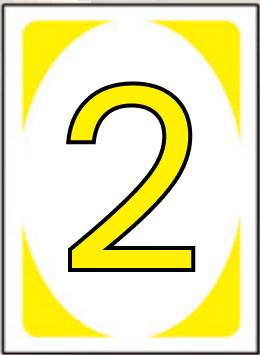
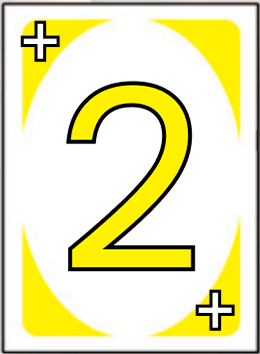
привязал логику, а именно карточки +,-,*2 и дизайн

diff --git a/KingOfTheHill/Components/Pages/Play.razor.css b/KingOfTheHill/Components/Pages/Play.razor.css
@@ -176,6 +176,10 @@
     margin-right: -20px;
 }
 
+.card__back:last-child {
+    margin: 0;
+}
+
 .card__back img {
     height: 80px;
 }
@@ -206,6 +210,11 @@
     cursor: pointer;
 }
 
+.hand__card:disabled {
+    filter: brightness(0.5);
+    cursor: not-allowed;
+}
+
 .hand__card:hover {
     transform: translateY(-20px);
 }
@@ -223,4 +232,48 @@
     justify-content: space-around;
     top: 90.6%;
     font-size: 1.1em;
+}
+
+.playButton__card {
+    position: absolute;
+    top: 85%;
+    left: 40%;
+    z-index: 20;
+    width: 20%;
+    border-radius: 10px;
+}
+
+.playButton__card button {
+    color: white;
+    font-size: 1.2em;
+    padding: 10px;
+    width: 100%;
+    border-radius: 10px;
+    background-color: rgb(26 157 2);
+}
+
+.playButton__card button:disabled {
+    background-color: rgb(211, 0, 0);
+    cursor: not-allowed;
+}
+
+.playButton__card p {
+    text-align: center;
+    color: rgb(255 0 0);
+}
+
+.inHand {
+    transform: translateY(-20px);
+}
+
+.player__move {
+    position: absolute;
+    color: white;
+    font-size: 1.2em;
+    top: 55%;
+    left: 45%;
+}
+
+.player__selected {
+    box-shadow: 0 0 10px 5px rgb(255 255 255 / 70%);
 }

diff --git a/KingOfTheHill/Hubs/MainHub.cs b/KingOfTheHill/Hubs/MainHub.cs
@@ -340,18 +340,50 @@ namespace KingOfTheHill.Hubs
         /// <param name="card">Card</param>
         /// <param name="targetPlayer">Target player</param>
         /// <returns></returns>
-        public async Task UseCardAttachedToPlayer(ICard card, Player? targetPlayer = null)
+        public async Task UseCardAttachedToPlayer(int cardIndex, Player? targetPlayer = null)
         {
             var (game, player) = GetCurrentGameAndPlayer();
             targetPlayer ??= player;
 
-            if (game == null || targetPlayer == null) return;
+            if (game == null || targetPlayer == null || player == null) return;
 
             _logger.LogInformation($"The player {Context.ConnectionId} is using the card attached to player {targetPlayer.ConnectionId}");
 
             try
             {
-                _gameProvider.UseCardAttachedToPlayer(card, ref targetPlayer);
+                ICard card = player.Deck[cardIndex];
+                var updatedPlayer = new Player()
+                {
+                    ConnectionId = player.ConnectionId,
+                    Id = player.Id,
+                    GameId = player.GameId,
+                    isFreezed = player.isFreezed,
+                    isSkipTurn = player.isSkipTurn,
+                    Name = player.Name,
+                    Deck = [.. player.Deck.Where(c => c != card)],
+                    Score = player.Score,
+                    HasCombo = player.HasCombo,
+                };
+
+                switch (card)
+                {
+                    case PositiveCard positiveCard:
+                        updatedPlayer.Score = positiveCard.Invoke(updatedPlayer);
+                        break;
+                    case NegativeCard negativeCard:
+                        int Score = negativeCard.Invoke(targetPlayer);
+                        targetPlayer.Score = Score < 0 ? targetPlayer.Score : Score;
+                        break;
+                    case BonusCard bonusCard:
+                        updatedPlayer.Score = bonusCard.Invoke(updatedPlayer);
+                        break;
+                }
+
+                game.Players[game.Players.FindIndex(p => p.Id == updatedPlayer.Id)] = updatedPlayer;
+                if (targetPlayer.Id != player.Id)
+                    game.Players[game.Players.FindIndex(p => p.Id == targetPlayer.Id)] = targetPlayer;
+                _games[game.GameID] = game;
+                
                 await Clients.Group(game.GameID.ToString()).SendAsync("ChangePlayerState", targetPlayer);
             }
             catch (Exception ex)

diff --git a/KingOfTheHill/Models.cs b/KingOfTheHill/Models.cs
@@ -52,7 +52,8 @@ public class GameProvider : IGameProvider // ToDo
             direction = game.direction,
             CurrentPlayer = game.CurrentPlayer,
             time = game.time,
-            Players = game.Players
+            Players = game.Players,
+            isStarted = game.isStarted,
         };
     }
 
@@ -89,14 +90,15 @@ public class GameProvider : IGameProvider // ToDo
                 p.Score = positiveCard.Invoke(p);
                 break;
             case NegativeCard negativeCard:
-                p.Score = negativeCard.Invoke(p);
+                int Score = negativeCard.Invoke(p);
+                p.Score = Score < 0 ? p.Score : Score;
                 break;
             case BonusCard bonusCard:
                 p.Score = bonusCard.Invoke(p);
                 break;
         }
 
-        p = new Player()
+        p = new()
         {
             ConnectionId = p.ConnectionId,
             Id = p.Id,
@@ -135,7 +137,24 @@ public class Player
     public bool HasCombo { get; set; } = false;
 }
 
-public class ICard;
+public class ICard
+{
+    public Guid Id = Guid.NewGuid();
+
+    public override bool Equals(object? obj)
+    {
+        if (obj == null || GetType() != obj.GetType())
+            return false;
+
+        var other = (ICard)obj;
+        return Id == other.Id;
+    }
+
+    public override int GetHashCode()
+    {
+        return Id.GetHashCode();
+    }
+}
 
 
 public class PositiveCard(int value) : ICard
@@ -205,7 +224,7 @@ public class Game
 
     public bool isStarted { get; set; } = false;
 
-    public Direction direction { get; set; } = Direction.Left;
+    public Direction direction { get; set; } = Direction.Right;
 
     public Guid CurrentPlayer { get; set; }
 
